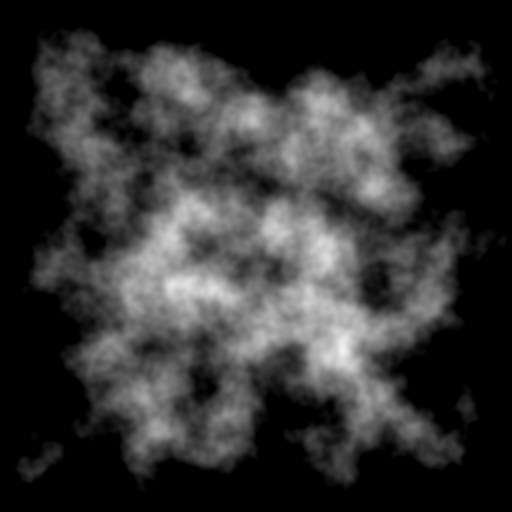
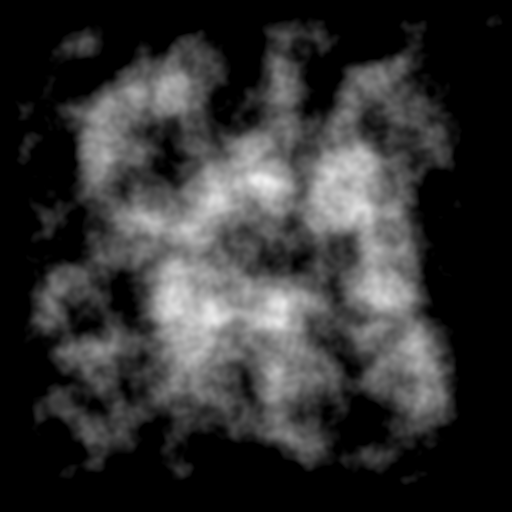
reintroduced mapv2 with better generation

diff --git a/map_v2.py b/map_v2.py
@@ -7,6 +7,7 @@ from tile import Tile
 from config import TileIds, HEIGHT_THRESHOLDS
 import cv2
 import random
+import time
 
 BIOME_COLORS = {
     # "OCEAN": (0, 0, 240),
@@ -34,6 +35,24 @@ BIOME_COLORS = {
     "TROPICAL_RAIN_FOREST": (79, 189, 127),
 }
 
+BIOME_TILEIDS = {
+    "OCEAN": TileIds.OCEAN,
+    "SHALLOWS": TileIds.SHALLOWS,
+    "BEACH": TileIds.BEACH,
+    "ROCK": TileIds.ROCK,
+    "DARK_ROCK": TileIds.DARK_ROCK,
+    "SNOW": TileIds.SNOW,
+    "FOREST": TileIds.FOREST,
+    "TEMPERATE_DESERT": TileIds.TEMPERATE_DESERT,
+    "TAIGA": TileIds.TAIGA,
+    "GRASSLAND": TileIds.GRASSLAND,
+    "TEMPERATE_DECIDUOUS_FOREST": TileIds.TEMPERATE_DECIDUOUS_FOREST,
+    "TEMPERATE_RAIN_FOREST": TileIds.TEMPERATE_RAIN_FOREST,
+    "SUBTROPICAL_DESERT": TileIds.SUBTROPICAL_DESERT,
+    "TROPICAL_SEASONAL_FOREST": TileIds.TROPICAL_SEASONAL_FOREST,
+    "TROPICAL_RAIN_FOREST": TileIds.TROPICAL_RAIN_FOREST,
+}
+
 
 class NoiseData:
     def __init__(self, noise, width, height, octaves, persistence, lacunarity, scale, seed, is_normalized):
@@ -54,35 +73,35 @@ class Biome:
     
     @staticmethod
     def SolveBiome(x, y, moisture_map:NoiseData, elevation_map:NoiseData):
-        e = elevation_map.noise[y][x]
-        m = moisture_map.noise[y][x]
+        elevation = elevation_map.noise[y][x]
+        moisture = moisture_map.noise[y][x]
 
-        if e < 0.1: return "OCEAN"
-        if e < 0.2: return "SHALLOWS"
-        if e < 0.25: return "BEACH"
+        if elevation < 0.1: return "OCEAN"
+        if elevation < 0.2: return "SHALLOWS"
+        if elevation < 0.25: return "BEACH"
 
 
-        if e > 0.85:
+        if elevation > 0.85:
             return "SNOW"
-        if e > 0.75:
+        if elevation > 0.75:
             return "DARK_ROCK"
-        if e > 0.65:
+        if elevation > 0.65:
             return "ROCK"
         
-        if e > 0.6:
-            if m < 0.33: return "TEMPERATE_DESERT"
-            if m < 0.77: return "FOREST"
+        if elevation > 0.6:
+            if moisture < 0.33: return "TEMPERATE_DESERT"
+            if moisture < 0.77: return "FOREST"
             return "TAIGA"
         
-        if e > 0.3:
-            if m < 0.16: return "TEMPERATE_DESERT"
-            if m < 0.50: return "GRASSLAND"
-            if m < 0.83: return "TEMPERATE_DECIDUOUS_FOREST"
+        if elevation > 0.3:
+            if moisture < 0.16: return "TEMPERATE_DESERT"
+            if moisture < 0.50: return "GRASSLAND"
+            if moisture < 0.83: return "TEMPERATE_DECIDUOUS_FOREST"
             return "TEMPERATE_RAIN_FOREST"
         
-        if m < 0.16: return "SUBTROPICAL_DESERT"
-        if m < 0.33: return "GRASSLAND"
-        if m < 0.66: return "TROPICAL_SEASONAL_FOREST"
+        if moisture < 0.16: return "SUBTROPICAL_DESERT"
+        if moisture < 0.33: return "GRASSLAND"
+        if moisture < 0.66: return "TROPICAL_SEASONAL_FOREST"
 
         return "TROPICAL_RAIN_FOREST"
 
@@ -113,12 +132,17 @@ class Map:
 
         self.elevation_map = None
         self.moisture_map = None
+        self.moist = False
 
         self.equator = 0.0
         self.poles = 1.0
 
         self.__generate_noisemaps()
 
+
+        self.map_data = self.generate_map_data()
+
+        self.export_biome_image("debug_images/biomes.png")
 
     def noise(self,nx, ny):
         # Rescale from -1.0:+1.0 to 0.0:1.0
@@ -127,6 +151,7 @@ class Map:
 
     def __generate_noisemaps(self):
         
+        t0 = time.time()
         world_seed = random.randint(0,10000)
         self.gen = OpenSimplex(seed=world_seed)
 
@@ -134,12 +159,13 @@ class Map:
         self.elevation_map.noise = np.clip(self.elevation_map.noise - self.falloff_map, 0, 1)
         print(f"[Map] Done generating elevation map!")
         # self.elevation_map.noise = np.power(self.elevation_map.noise, 1.20)
-          
+        
+        self.moist=True
         moisture_seed = random.randint(0,10000)
         self.gen = OpenSimplex(seed=moisture_seed)
         self.moisture_map = self.generate_noise(self.width,self.height,self.octaves,self.persistence,self.lacunarity,self.scale, seed=moisture_seed)
         print(f"[Map] Done generating moisture smap!")
-
+        print(f"Generated noisemaps in: {round((time.time() - t0),2)}s")
 
 
     def generate_noise(self, width, height, octaves, persistence, lacunarity, scale, seed, normalized=True) -> NoiseData:
@@ -147,22 +173,42 @@ class Map:
         
         for y in range(self.height):
             for x in range(self.width):
-
                 nx = x / scale
                 ny = y / scale 
-
                 e = ((1 * self.noise(1 * nx, 1 * ny)) +
-                     (0.5 * self.noise(2 * nx, 2 * ny)) + 
-                     (0.25 * self.noise(4 * nx, 4 * ny)) + 
+                    (0.5 * self.noise(2 * nx, 2 * ny)) + 
+                    (0.25 * self.noise(4 * nx, 4 * ny)) + 
                     (0.125 * self.noise(8 * nx, 8 * ny))
                     )
                 noise_map[y][x] =  e / (1 + 0.5 + 0.25 + 0.125)
-
 
         noise_map = (noise_map - noise_map.min()) / (noise_map.max() - noise_map.min())
 
         return NoiseData(noise_map, width, height, octaves, persistence, lacunarity, scale, seed, normalized)
     
+
+    def generate_map_data(self):
+        tile_map = np.zeros((self.height, self.width, 2), dtype=np.int32)
+
+        for y in range(self.height):
+            for x in range(self.width):
+                biome = Biome.SolveBiome(
+                    x, y,
+                    self.moisture_map,
+                    self.elevation_map
+                )
+                try:
+                    tile = BIOME_TILEIDS.get(biome, TileIds.OCEAN) #Ocean fallback
+                    tx, ty = tile.value                             # tuple from Enum
+
+                    tile_map[y, x, 0] = tx
+                    tile_map[y, x, 1] = ty 
+                except Exception as err:
+                    print("Couldnt get tile from biome key", biome)
+                    print("Error:", err)
+
+
+        return tile_map
 
 
     def export_biome_image(self, path="biomes.png"):
@@ -186,8 +232,6 @@ class Map:
                 if biome == "OCEAN":
                     # Deep ocean darker, shallow ocean lighter
                     shade = 0.55 + (e * 0.45)     # 0.55 → 1.0
-                    # shade = (1.0 * 1-e) + emin 
-                    # shade = (emin)
                 else:
                     # Land shading
                     # shade = 0.60 + (e * 0.40)     # 0.60 → 1.0

diff --git a/main.py b/main.py
@@ -1,5 +1,6 @@
 import pygame
-from map import Map
+# from map import Map
+from map_v2 import Map
 from renderer import Renderer
 from cursor import Cursor
 from gui import GUI
@@ -20,6 +21,8 @@ class Engine:
         ################# Game Screen Window ###################
         self.game_screen_width = 400
         self.game_screen_height = 400
+        # self.game_screen_width = 2048
+        # self.game_screen_height = 2048
    
         self.screen = pygame.Surface((self.game_screen_width,self.game_screen_height))
         self.game_screen_ratio = (self.game_screen_height/self.game_screen_width)
@@ -100,7 +103,7 @@ class Engine:
                 tile = self.map.region_data[self.cursor.position[1]][self.cursor.position[0]]
             else:
                 tile = self.map.map_data[self.cursor.position[1]][self.cursor.position[0]]
-            self.GUI.draw_text(5,5+64,f"Tile height: {round(tile.tile_height,2)} tile type: {tile.tile_type.name}")
+            # self.GUI.draw_text(5,5+64,f"Tile height: {round(tile.tile_height,2)} tile type: {tile.tile_type.name}")
             # A cursor size of 10x10 on a map resolution of 50x50, means 1 world tile sampled equals 50/10 = 5 blocks.
             # So Resx = resolution on x axis.
             #    Ss = SampleSize
@@ -112,8 +115,9 @@ class Engine:
             # So then that tile would be at Wx, and within that tile it would be at xoffset 2
 
 
-            pygame.display.flip()
             self.clock.tick(self.tick_rate)
+            print(self.clock.get_fps())
+            pygame.display.flip()
         # Close the window and quit.
         print("Goodbye!")
         pygame.quit()

diff --git a/renderer.py b/renderer.py
@@ -7,7 +7,6 @@ import cv2
 import numpy as np
 import pygame
 import sys
-import random
 
 class Renderer:
     def __init__(self, engine):
@@ -17,12 +16,24 @@ class Renderer:
         self.texture_loader = TextureLoader(self.tile_size,"TinyRTS_v06.png")
 
 
-    def draw_map(self, map_data: List[List[Tile]]) -> None:
-        for y, row in enumerate(map_data):
-            for x, tile in enumerate(row):
-                tile_type = self.auto_tile_trees(x,y,map_data)
-                # Load the texture for this tile type
-                texture = self.texture_loader.get_tile(tile_type.value)
+    # def draw_map(self, map_data: List[List[Tile]]) -> None:
+    #     for y, row in enumerate(map_data):
+    #         for x, tile in enumerate(row):
+    #             tile_type = self.auto_tile_trees(x,y,map_data)
+    #             # Load the texture for this tile type
+    #             texture = self.texture_loader.get_tile(tile_type.value)
+
+    #             # Draw the tile
+    #             self.screen.blit(texture, (x * self.tile_size, y * self.tile_size))
+
+    def draw_map(self, map_data: np.ndarray) -> None:
+        height, width, _ = map_data.shape
+        for y in range(height):
+            for x in range(width):
+
+                tile_tuple = tuple(map_data[y,x])
+
+                texture = self.texture_loader.get_tile(tile_tuple)
 
                 # Draw the tile
                 self.screen.blit(texture, (x * self.tile_size, y * self.tile_size))

diff --git a/cursor.py b/cursor.py
@@ -37,9 +37,9 @@ class Cursor:
 
 
 
-        if self.should_generate_new_world:
-            self.map.map_data = self.map.generate_world()
-            self.should_generate_new_world = False
+        # if self.should_generate_new_world:
+        #     self.map.map_data = self.map.generate_world()
+        #     self.should_generate_new_world = False
   
 
     def handle_input(self, event, keys):
@@ -90,9 +90,9 @@ class Cursor:
                 if not self.engine.show_zoomin:
                     wx = self.position[0] + self.map.world_offset_x
                     wy = self.position[1] + self.map.world_offset_y
-                    self.map.generate_region_at(wx,wy, resolution=(self.map.width,self.map.height), sample_size=self.size)
-                    self.engine.show_zoomin = True
-                    self.size= self.region_cursor_size
+                    # self.map.generate_region_at(wx,wy, resolution=(self.map.width,self.map.height), sample_size=self.size)
+                    # self.engine.show_zoomin = True
+                    # self.size= self.region_cursor_size
 
             if event.key == pygame.K_BACKSPACE and keys[pygame.K_BACKSPACE]:
                 self.engine.show_zoomin = False

diff --git a/config.py b/config.py
@@ -12,7 +12,7 @@ class TileIds(Enum):
     GRASS = (0,1)
     DARKGRASS = (4,1)
     LIGHTROCK = (7,1)
-    ROCK = (6,1)
+    # ROCK = (6,1)
     MOUNTAIN = (8,4)
     # TREES = (3,4)
     # TREESTUMP = (3,5)
@@ -36,7 +36,24 @@ class TileIds(Enum):
     HUMAN_VILLAGE = (1,13)
 
     ############################
+    
 
+    ######## MAP V2 TILES #######
+    OCEAN = (13,2)
+    SHALLOWS = (15,0)
+    BEACH = (2,0)
+    ROCK = (7,1)
+    DARK_ROCK = (6,1)
+    SNOW = (5,2)
+    FOREST = (0,5)
+    TEMPERATE_DESERT = (0,0)
+    TAIGA = (4,4)
+    GRASSLAND = (4,1)
+    TEMPERATE_DECIDUOUS_FOREST = (1,5)
+    TEMPERATE_RAIN_FOREST = (2,5)
+    SUBTROPICAL_DESERT = (1,0)
+    TROPICAL_SEASONAL_FOREST = (2,4)
+    TROPICAL_RAIN_FOREST = (2,5)
 
 # HEIGHT_THRESHOLDS = [
 #     (0,  "DARKWATER"),
